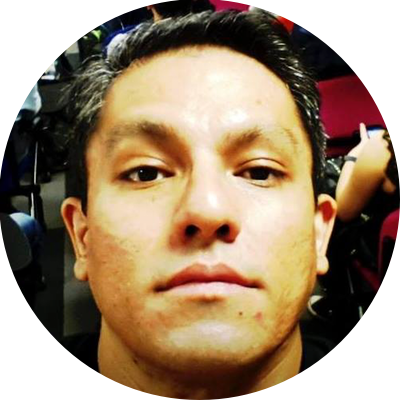
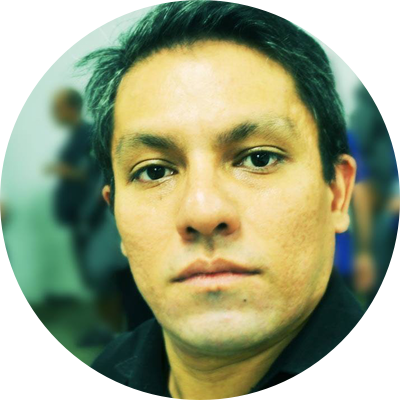
New member image and typo fixing

diff --git a/index.html b/index.html
@@ -516,7 +516,7 @@
 		
 	        <div class="col l6 s16">
 	            <h5 class="white-text">Sobre o Google Developers Group</h5>
-	            <p class="light white-text">O Google Developers Group é uma iniciativa de pessoas interessadas construir com tecnologia e disseminar o conhecimento. Nossos eventos são direcionados para a comunidade de desenvolvedores, engenheiros, designers e empreendedores, organizados pelos nossos membros de forma voluntária e sem fins lucrativos. Encontre outros capítulos do GDG no <a class="bold yellow-text" href="https://developers.google.com/groups/">Google Developers</a>
+	            <p class="light white-text">O Google Developers Group é uma iniciativa de pessoas interessadas em construir com tecnologia e disseminar o conhecimento. Nossos eventos são direcionados para a comunidade de desenvolvedores, engenheiros, designers e empreendedores, organizados pelos nossos membros de forma voluntária e sem fins lucrativos. Encontre outros capítulos do GDG no <a class="bold yellow-text" href="https://developers.google.com/groups/">Google Developers</a>
 				</p>
 			
 	        </div>
